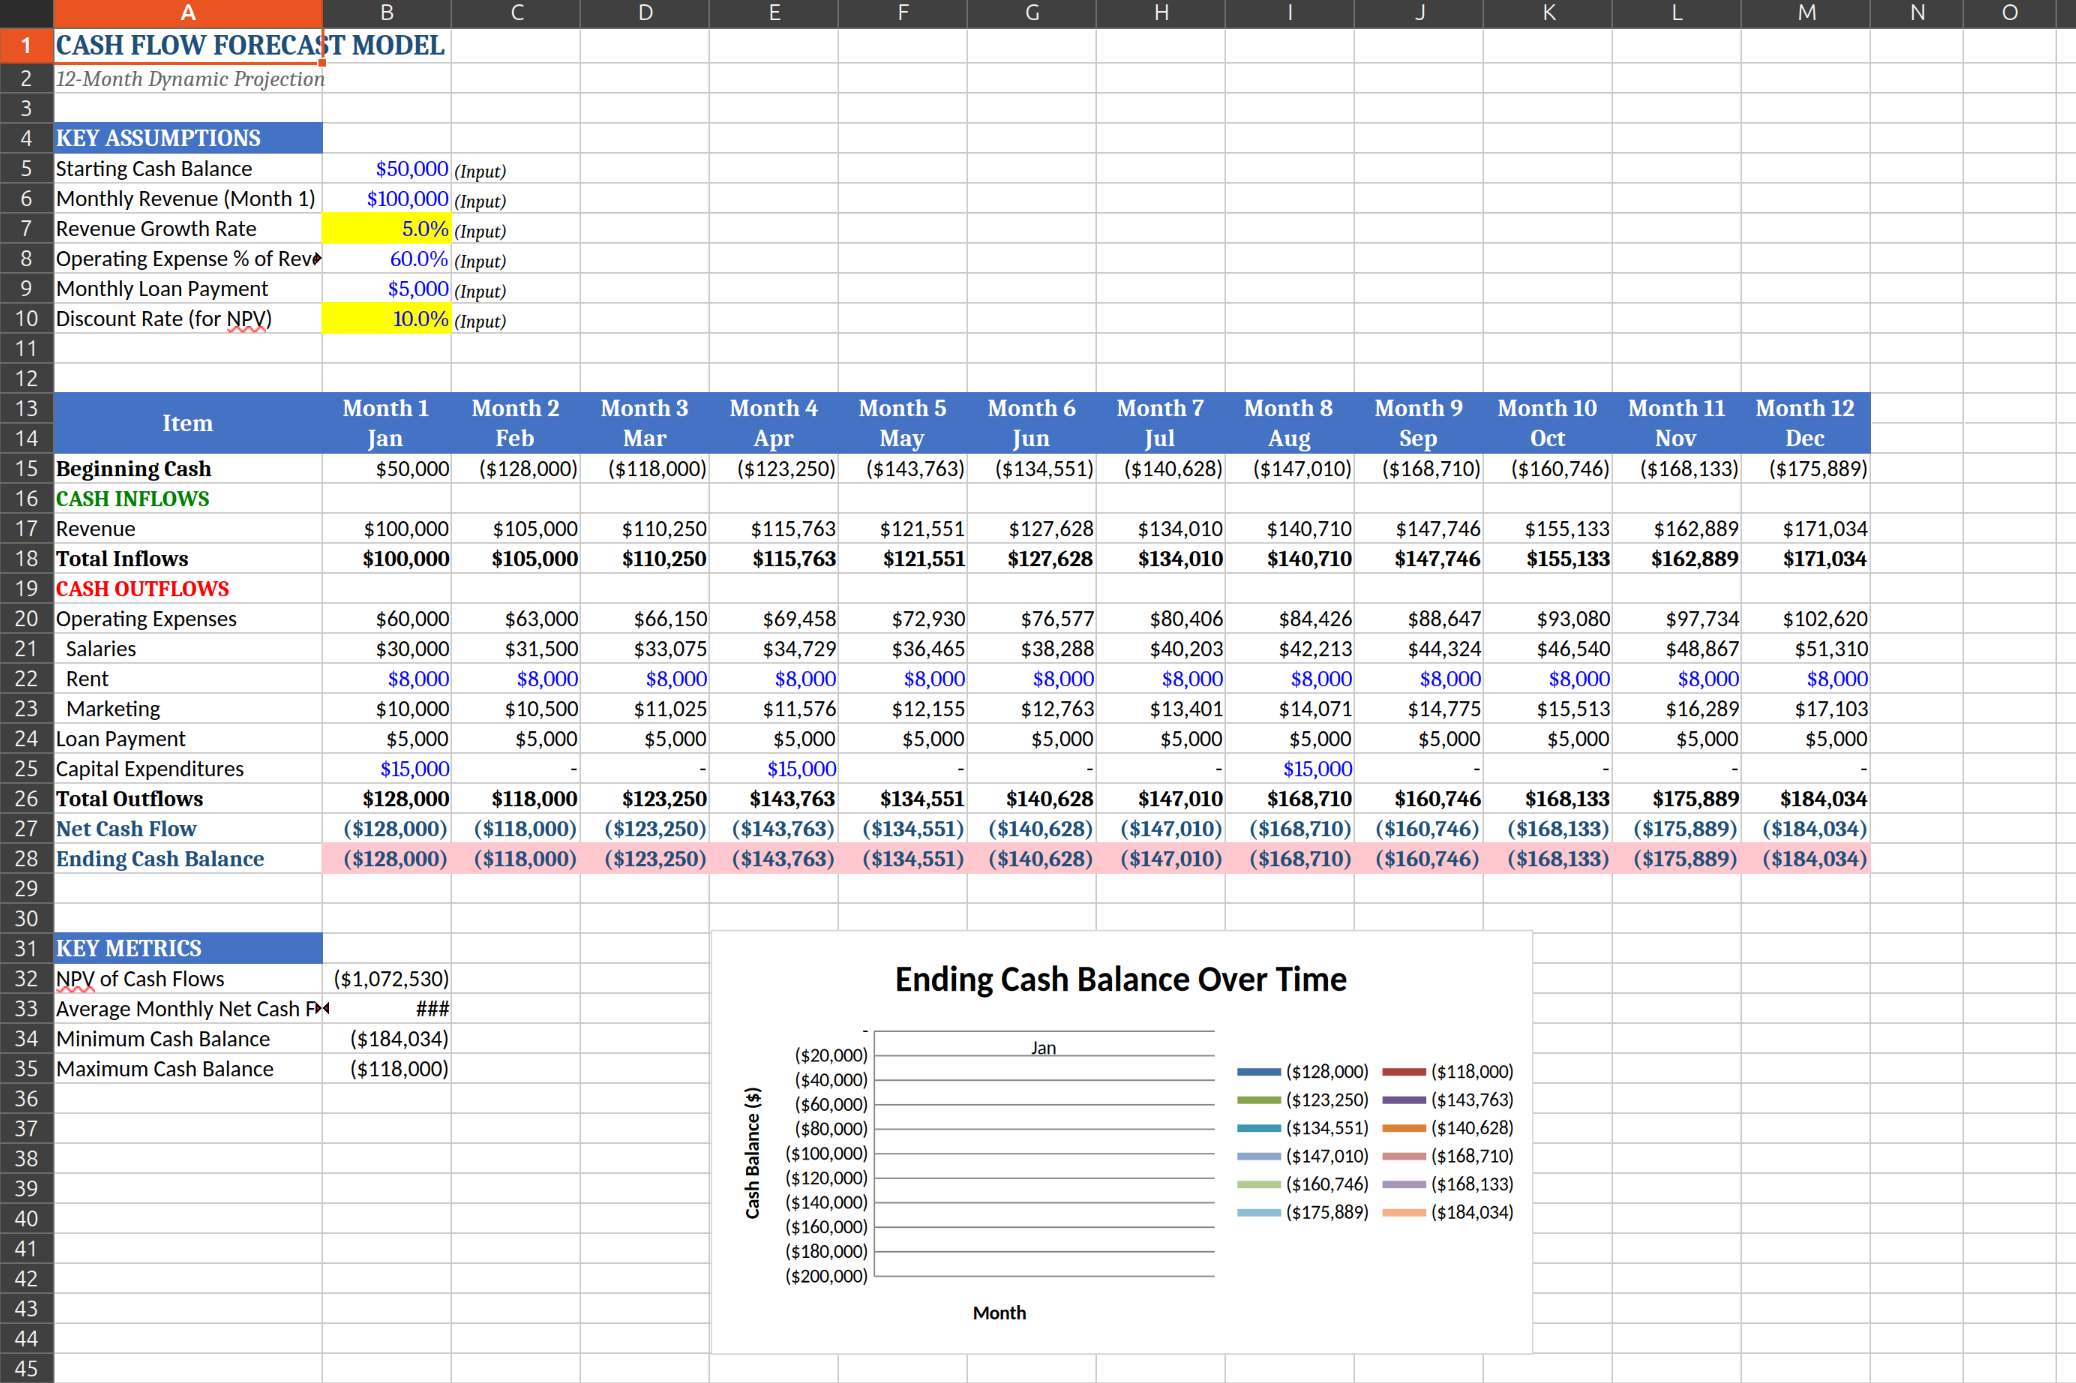
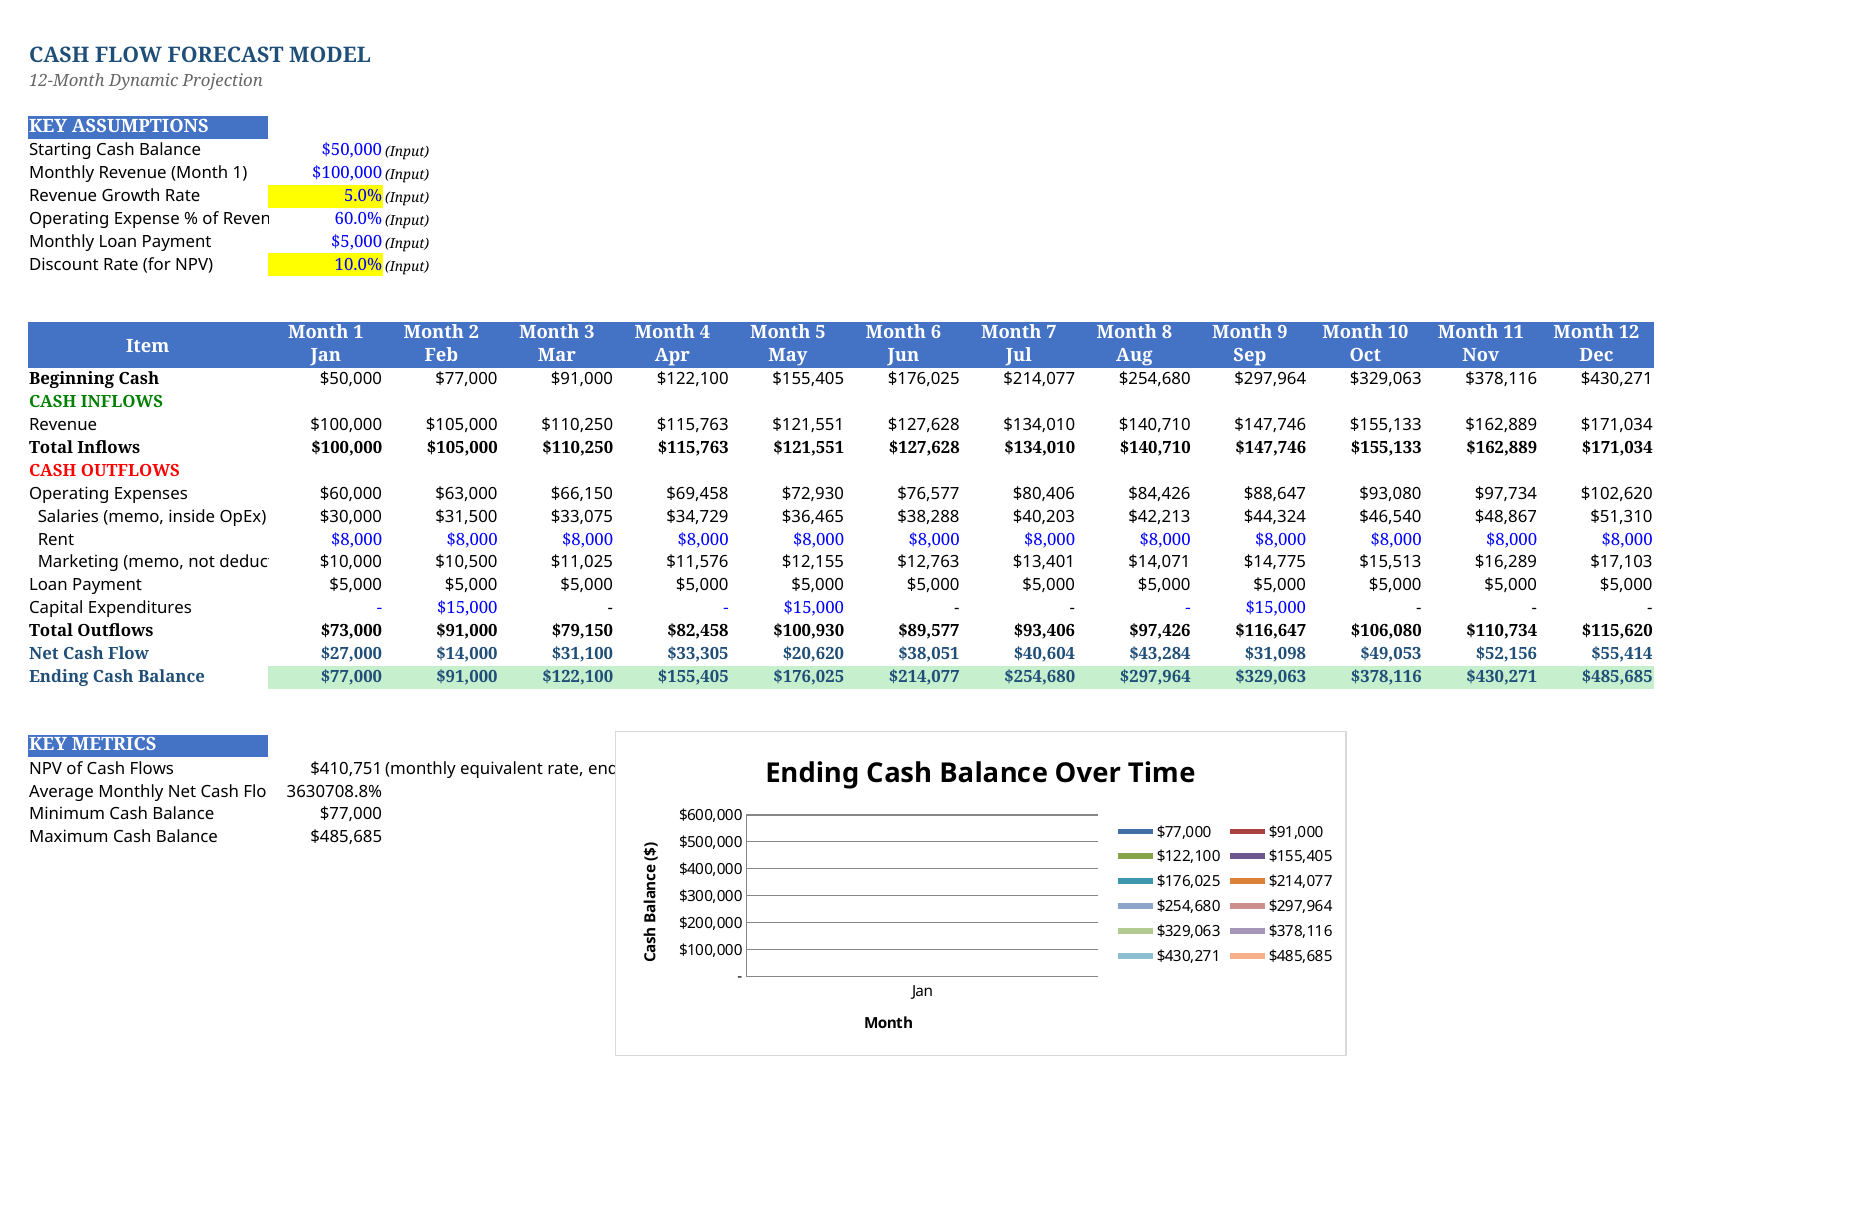
Correct workbook formulas so they match the tested models
Cash-flow totals now use revenue minus operating expenses, rent, the loan
payment, and CapEx, with the $15,000 items in months 2, 5, and 9. NPV
discounts every month at the equivalent monthly rate. Portfolio risk uses
the same zero-correlation expression as the scenario rows and the Python
baseline. User-guide figures and the two README images that showed the old
results are updated to the recalculated values.

diff --git a/tests/test_workbook_consistency.py b/tests/test_workbook_consistency.py
@@ -1,0 +1,92 @@
+import unittest
+from pathlib import Path
+
+import openpyxl
+
+from financial_models.cash_flow import DEFAULT_CAPEX, CashFlowAssumptions, forecast_cash_flow
+from financial_models.portfolio import portfolio_metrics, workbook_balanced_portfolio
+
+
+WORKBOOK = Path(__file__).resolve().parents[1] / "Advanced_Financial_Models.xlsx"
+
+
+class WorkbookConsistencyTests(unittest.TestCase):
+    @classmethod
+    def setUpClass(cls):
+        cls.formulas = openpyxl.load_workbook(WORKBOOK, data_only=False)
+        cls.values = openpyxl.load_workbook(WORKBOOK, data_only=True)
+
+    def test_cash_flow_identity_matches_the_python_forecast(self):
+        sheet = self.formulas["Cash Flow Model"]
+        assumptions = CashFlowAssumptions()
+
+        self.assertEqual(sheet["B5"].value, assumptions.starting_cash)
+        self.assertEqual(sheet["B6"].value, assumptions.revenue_month1)
+        self.assertEqual(sheet["B7"].value, assumptions.monthly_revenue_growth)
+        self.assertEqual(sheet["B8"].value, assumptions.operating_expense_ratio)
+        self.assertEqual(sheet["B9"].value, assumptions.monthly_loan_payment)
+        self.assertEqual(sheet["B10"].value, assumptions.annual_discount_rate)
+        self.assertEqual(sheet["B22"].value, assumptions.monthly_rent)
+
+        for month in range(1, 13):
+            cell = sheet.cell(row=25, column=month + 1)
+            column = cell.column_letter
+            self.assertEqual(cell.value, DEFAULT_CAPEX.get(month, 0.0))
+            self.assertEqual(
+                sheet[f"{column}26"].value,
+                f"={column}20+{column}22+{column}24+{column}25",
+            )
+            self.assertEqual(sheet[f"{column}27"].value, f"={column}18-{column}26")
+            self.assertEqual(sheet[f"{column}28"].value, f"={column}15+{column}27")
+
+        self.assertEqual(sheet["B32"].value, "=NPV((1+$B$10)^(1/12)-1,B27:M27)")
+
+        cached = self.values["Cash Flow Model"]
+        forecast = forecast_cash_flow()
+        self.assertAlmostEqual(cached["B27"].value, 27_000.0)
+        self.assertAlmostEqual(cached["B27"].value, forecast.periods[0].net_cash_flow)
+        self.assertAlmostEqual(cached["M17"].value, forecast.periods[-1].revenue)
+        self.assertAlmostEqual(cached["M28"].value, forecast.periods[-1].ending_cash)
+        self.assertAlmostEqual(cached["B32"].value, forecast.npv_of_net_cash_flows)
+        self.assertAlmostEqual(cached["B33"].value, forecast.average_monthly_net_cash_flow)
+        self.assertAlmostEqual(cached["B34"].value, forecast.minimum_cash_balance)
+        self.assertAlmostEqual(cached["B35"].value, forecast.maximum_cash_balance)
+
+    def test_portfolio_risk_matches_zero_correlation_metrics(self):
+        sheet = self.formulas["Portfolio Allocation"]
+        assets = workbook_balanced_portfolio()
+
+        for row, asset in enumerate(assets, start=11):
+            self.assertEqual(sheet.cell(row=row, column=1).value, asset.name)
+            self.assertEqual(sheet.cell(row=row, column=2).value, asset.expected_return)
+            self.assertEqual(sheet.cell(row=row, column=3).value, asset.volatility)
+            self.assertEqual(sheet.cell(row=row, column=4).value, asset.weight)
+
+        self.assertEqual(
+            sheet["B21"].value,
+            "=SQRT(SUMPRODUCT(D11:D16,D11:D16,C11:C16,C11:C16))",
+        )
+
+        metrics = portfolio_metrics(assets)
+        cached = self.values["Portfolio Allocation"]
+        self.assertAlmostEqual(cached["B20"].value, metrics.expected_return)
+        self.assertAlmostEqual(cached["B21"].value, metrics.volatility)
+        self.assertAlmostEqual(cached["B22"].value, metrics.sharpe_ratio)
+        self.assertAlmostEqual(cached["B23"].value, metrics.future_value)
+        self.assertAlmostEqual(cached["B21"].value, 0.06824001758499187)
+
+    def test_expected_loss_formula_is_exposure_times_pd_times_lgd(self):
+        sheet = self.formulas["Loan Risk Model"]
+
+        self.assertEqual(sheet["B5"].value, 0.45)
+        self.assertEqual(sheet["E6"].value, 0.01)
+        self.assertEqual(sheet["E10"].value, 0.15)
+        self.assertEqual(sheet["E13"].value, 0.5)
+        self.assertEqual(sheet["H17"].value.replace(" ", ""), "=G17*E17*F17")
+        self.assertEqual(sheet["F6"].value, "Low")
+        self.assertEqual(sheet["F10"].value, "Medium")
+        self.assertEqual(sheet["F13"].value, "High")
+
+
+if __name__ == "__main__":
+    unittest.main()

diff --git a/README.md b/README.md
@@ -58,7 +58,7 @@ The dashboard includes executive KPIs, editable cash-flow assumptions, loan expe
 
 ![Cash-flow forecast model](cash-flow-model.png)
 
-The 12-month model compounds revenue growth, forecasts operating expenses, rent, debt service and CapEx, then tracks liquidity month by month. The Python implementation converts the annual discount assumption to an equivalent monthly rate before discounting monthly net cash flows.
+The 12-month model compounds revenue growth, forecasts operating expenses, rent, debt service and CapEx, then tracks liquidity month by month. Net cash flow is revenue minus operating expenses, rent, the loan payment, and CapEx. Both the workbook and the Python model convert the annual discount assumption to an equivalent monthly rate and discount every month-end net cash flow at that rate. The three $15,000 CapEx items fall in months 2, 5, and 9.
 
 **Core outputs:** ending cash, average monthly net cash flow, minimum/maximum liquidity, and NPV.
 
@@ -106,7 +106,7 @@ The Excel workbook compares six asset classes using expected return, volatility,
 
 > **Baseline volatility = √Σ(weight × asset volatility)²**
 
-This baseline remains available for workbook-to-code reconciliation.
+The workbook's portfolio-risk formula is this same zero-correlation expression. This baseline remains available for workbook-to-code reconciliation.
 
 ### Covariance-aware extension
 
